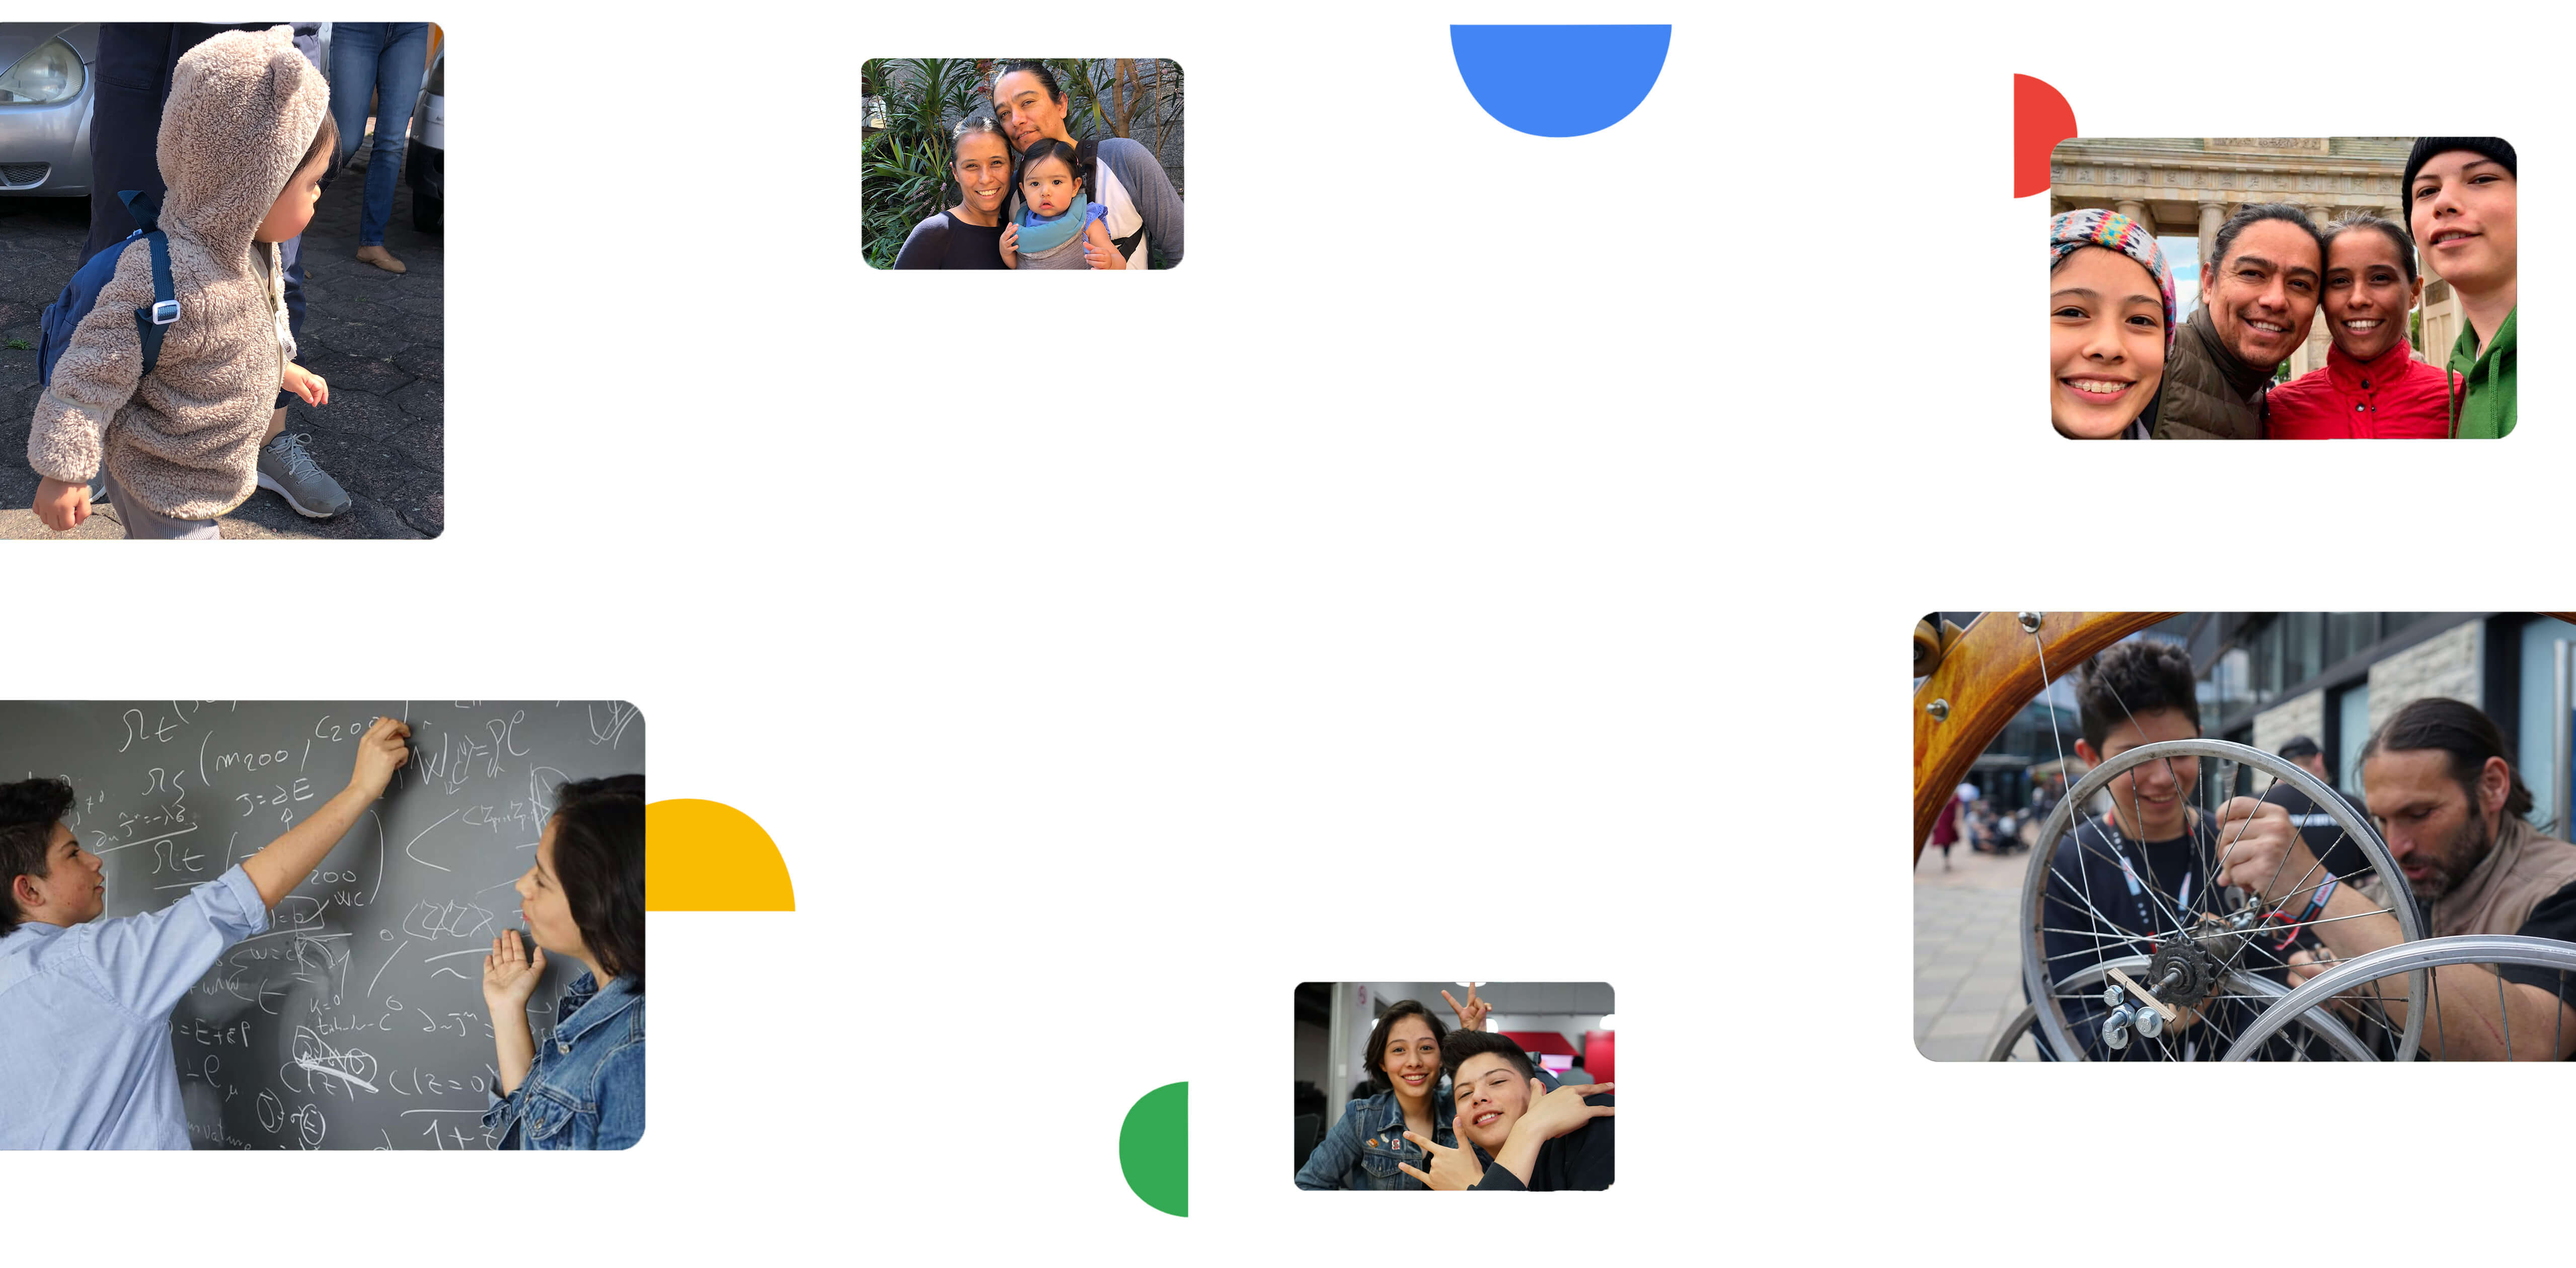
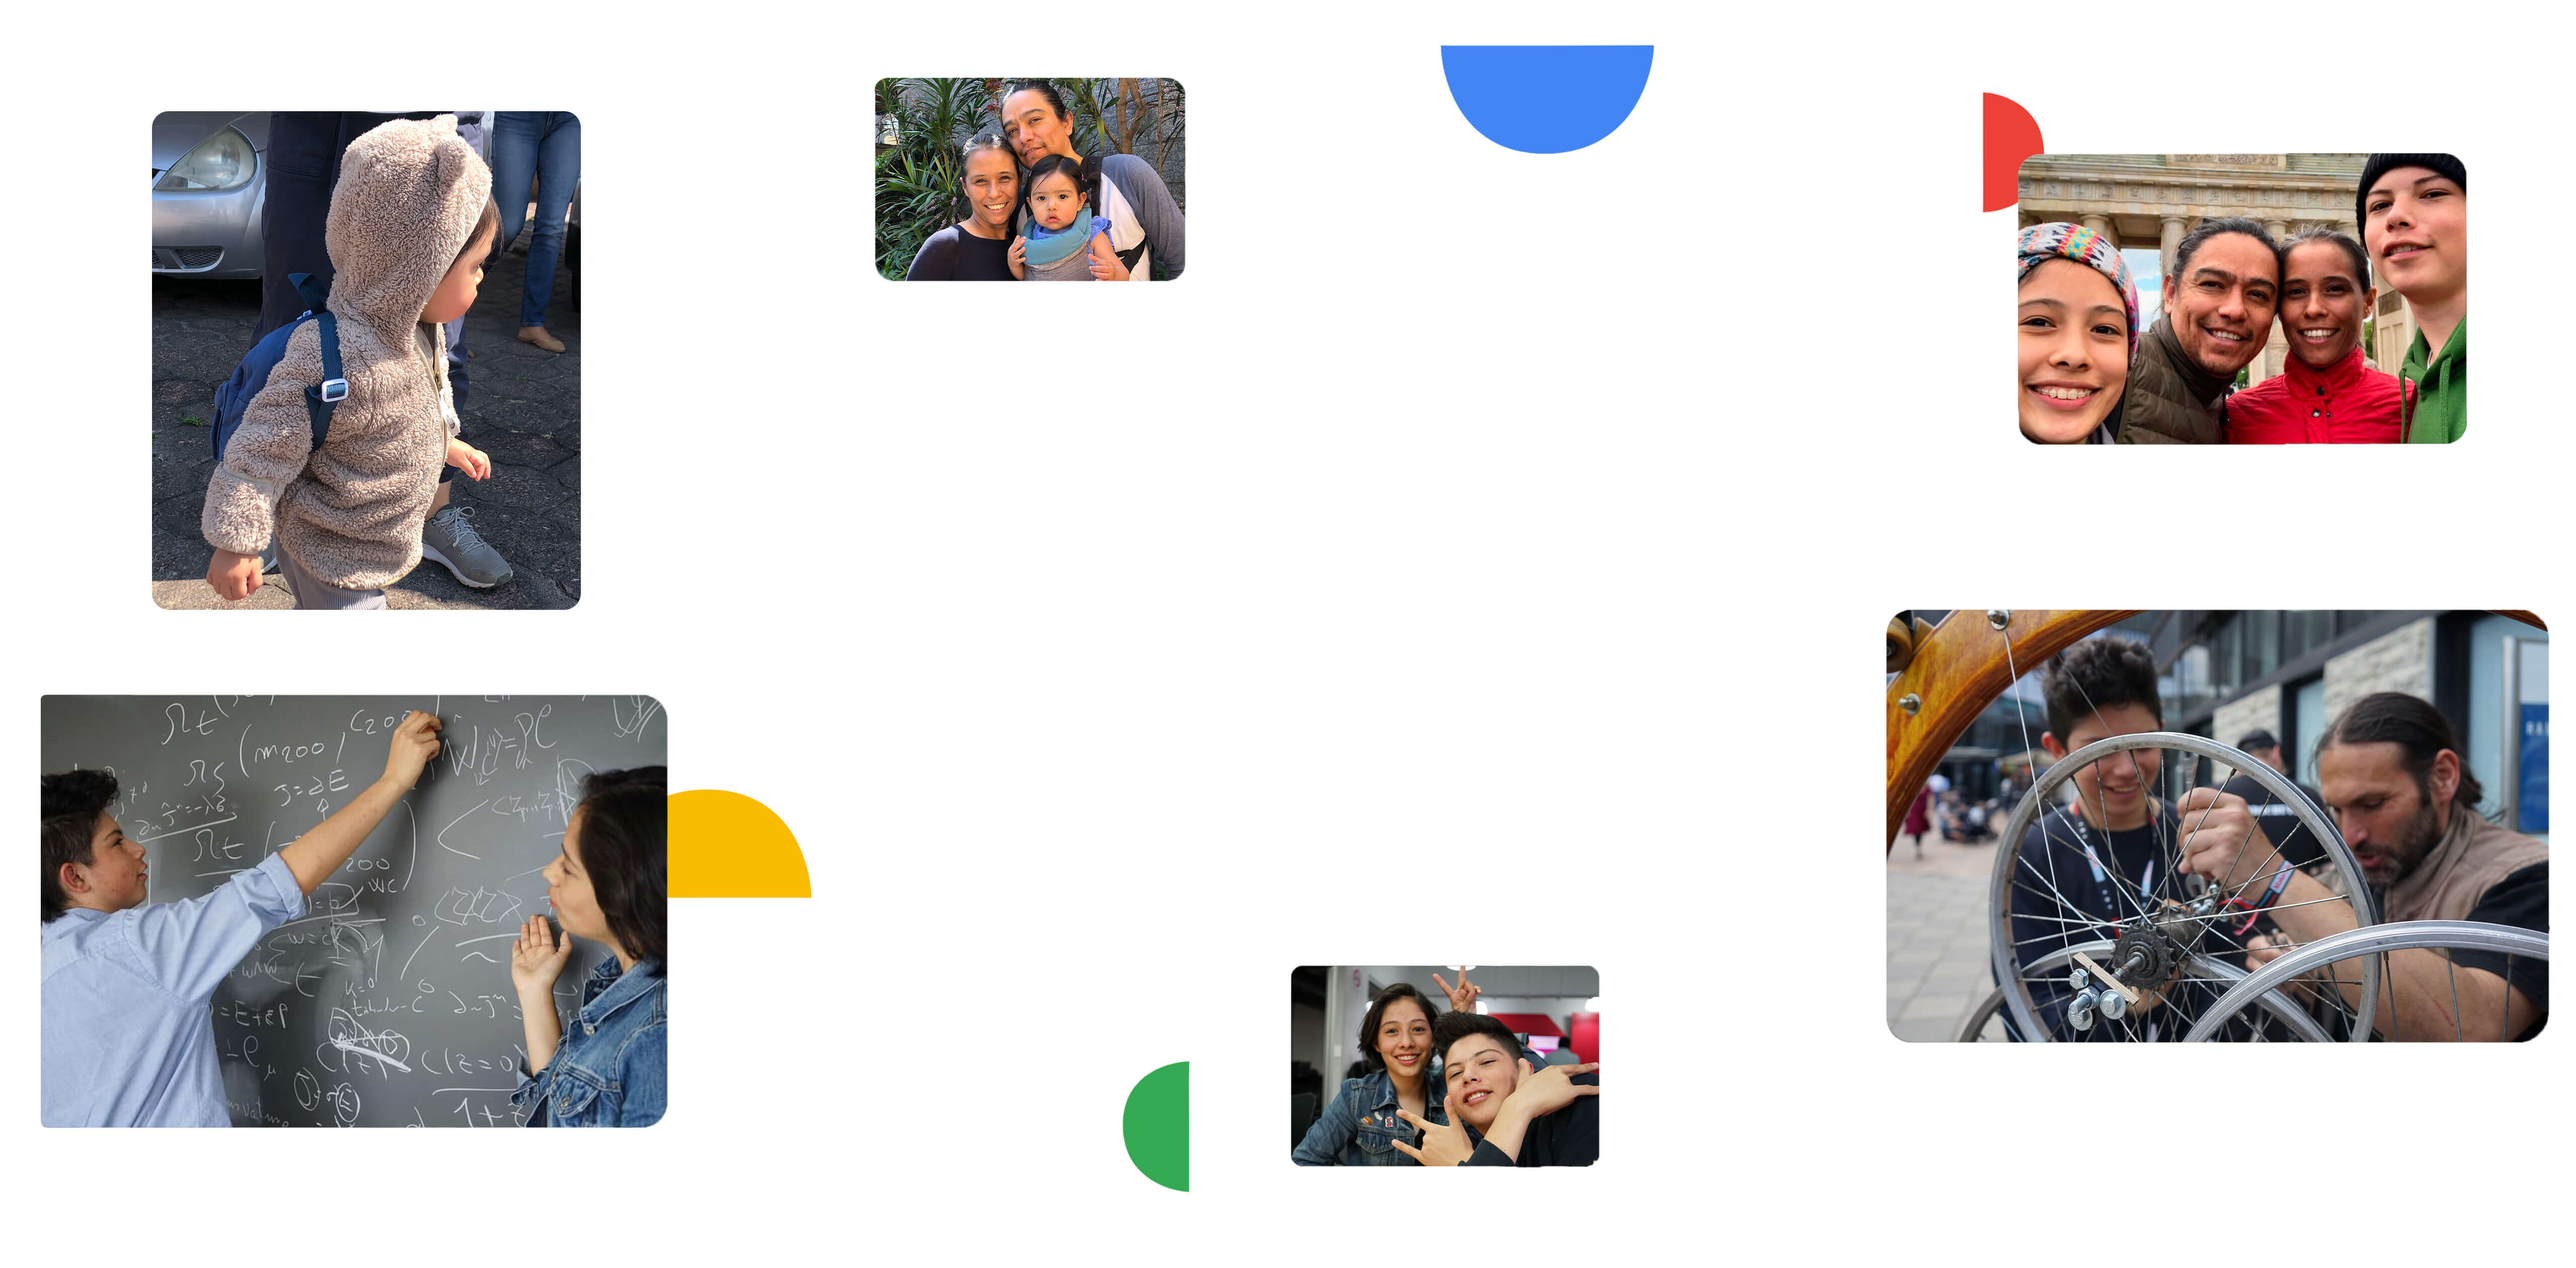
agremagos estilos de tablet a about

diff --git a/src/frontend/components/Langind/index.js b/src/frontend/components/Langind/index.js
@@ -40,8 +40,37 @@ function LangindUI() {
         </div>
       </section>
 
+      {/* Edita tus recuerdos para darles vida */}
+      <section className="secction container display-flex-colum_tablet ">
+        <div data-aos="fade-right" className="container-secction-small">
+          <img
+            src="https://www.google.com/photos/static/2020/images/index/icon_editing.svg"
+            alt=""
+          />
+          <h2>
+            Cuida tus <br /> recuerdos con <br /> Clean AI
+          </h2>
+          <p>
+            Usa la inteligencia artificial, para cuidar tus recuerdos y
+            almacenamiento. Usando Clean AI, lograrás saber que fotos están
+            duplicadas y tu decides cual conservar deseas conservar.
+          </p>
+        </div>
+        <figure
+          data-aos="fade-left"
+          className="container-secction-big img-container"
+        >
+          {/* imagen de ejemplo de computadora */}
+          <img
+            className="img-w-1"
+            src={imgClean}
+            alt="Imagen de ejemplo de editar"
+          />
+        </figure>
+      </section>
+
       {/* tus recuerdos en toos los dispositivos */}
-      <section className="secction container ">
+      <section className="secction container display-flex-colum_tablet">
         <div data-aos="fade-right" className="container-secction-small">
           <svg
             xmlns="http://www.w3.org/2000/svg"
@@ -107,7 +136,7 @@ function LangindUI() {
       </section>
 
       {/* Encuentra fotos mas rapido */}
-      <section className="secction container">
+      <section className="secction container container-recuerdos">
         <div data-aos="zoom-out" className="text-center">
           <svg
             xmlns="http://www.w3.org/2000/svg"
@@ -115,6 +144,7 @@ function LangindUI() {
             height="56px"
             viewBox="0 0 55 56"
             version="1.1"
+            className="svg"
           >
             <g
               id="Page-1"
@@ -271,35 +301,6 @@ function LangindUI() {
             />
           </figure>
         </div>
-      </section>
-
-      {/* Edita tus recuerdos para darles vida */}
-      <section className="secction container">
-        <div data-aos="fade-right" className="container-secction-small">
-          <img
-            src="https://www.google.com/photos/static/2020/images/index/icon_editing.svg"
-            alt=""
-          />
-          <h2>
-            Cuida tus <br /> recuerdos con <br /> Clean AI
-          </h2>
-          <p>
-            Usa la inteligencia artificial, para cuidar tus recuerdos y
-            almacenamiento. Usando Clean AI, lograrás saber que fotos están
-            duplicadas y tu decides cual conservar deseas conservar.
-          </p>
-        </div>
-        <figure
-          data-aos="fade-left"
-          className="container-secction-big img-container"
-        >
-          {/* imagen de ejemplo de computadora */}
-          <img
-            className="img-w-1"
-            src={imgClean}
-            alt="Imagen de ejemplo de editar"
-          />
-        </figure>
       </section>
 
       {/* Saca el máximo partido de tus recuerdos con Google Fotos */}

diff --git a/src/frontend/routes/App.js b/src/frontend/routes/App.js
@@ -3,12 +3,11 @@ import { BrowserRouter, Route, Switch } from "react-router-dom";
 import { StateContex } from "../state";
 
 import About from "../containers/About.jsx";
-import Login from "../containers/Login.jsx";
 import Photos from "../containers/photos.jsx";
 import NotFound from "../containers/NotFound.jsx";
 
 function App() {
-  const { AgregarValores, llamarApiDatosAll } = React.useContext(StateContex);
+  const { llamarApiDatosAll } = React.useContext(StateContex);
 
   React.useEffect(() => {
     llamarApiDatosAll();
@@ -17,7 +16,6 @@ function App() {
     <BrowserRouter>
       <Switch>
         <Route exact path="/" component={About} />
-        <Route exact path="/login" component={Login} />
         <Route exact path="/photos" component={Photos} />
         <Route exact path="/photos/" component={Photos} />
         <Route exact path="/photos/:name" component={Photos} />

diff --git a/src/frontend/assets/styles/responsive/tablet.css b/src/frontend/assets/styles/responsive/tablet.css
@@ -1,0 +1,55 @@
+@media (max-width: 780px) {
+  .search-container {
+    width: 20%;
+  }
+  .logo--container {
+    margin: 0;
+  }
+  nav {
+    justify-content: space-around;
+  }
+  h2 {
+    font-size: 130%;
+  }
+
+  .secction p {
+    font-size: 90%;
+  }
+
+  .svg,
+  .secction svg {
+    width: 40px;
+    height: 40px;
+  }
+
+  .intro-fondo-center .BotomBlue {
+    height: 130%;
+  }
+  .img-container-samll,
+  .img-container {
+    height: auto;
+  }
+
+  .display-flex-colum_tablet {
+    flex-direction: column;
+    height: auto;
+  }
+  .secction {
+    margin-top: 60px;
+    margin-bottom: 60px;
+    height: 60vh;
+  }
+  .container-recuerdos{
+    height: auto;
+  }
+
+  .ImgSearch {
+    width: auto;
+    height: 100%;
+  }
+
+  .intro {
+    height: 80vh;
+    margin: 0;
+  }
+}

diff --git a/src/frontend/routes/serverRoutes.js b/src/frontend/routes/serverRoutes.js
@@ -1,32 +1,26 @@
 import About from "../containers/About.jsx";
-import Login from "../containers/Login.jsx";
 import Photos from "../containers/photos.jsx";
 import NotFound from "../containers/NotFound.jsx";
 
 const routes = [
   {
     exact: true,
-    path: '/',
+    path: "/",
     component: About,
   },
   {
     exact: true,
-    path: '/login',
-    component: Login,
-  },
-  {
-    exact: true,
-    path: '/photos',
+    path: "/photos",
     component: Photos,
   },
   {
     exact: true,
-    path: '/photos/',
+    path: "/photos/",
     component: Photos,
   },
   {
     exact: true,
-    path: '/photos/:name',
+    path: "/photos/:name",
     component: Photos,
   },
   {

diff --git a/src/frontend/index.js b/src/frontend/index.js
@@ -8,10 +8,10 @@ import { createBrowserHistory } from "history";
 // importamos nuestro provider, (el estado de nuestra web app)
 import { StateProvider } from "./state/index";
 
-import "animate.css"
+import "animate.css";
 import "./assets/styles/style.css";
+import "./assets/styles/responsive/tablet.css";
 import "aos/dist/aos.css";
-
 
 const history = createBrowserHistory();
 
@@ -21,7 +21,7 @@ const history = createBrowserHistory();
 
 // ReactDOM.render(
 ReactDOM.hydrate(
-    <StateProvider> 
+  <StateProvider>
     <Router history={history}>
       <App />
     </Router>

diff --git a/src/frontend/assets/styles/style.css b/src/frontend/assets/styles/style.css
@@ -15,9 +15,13 @@ h2 {
 }
 
 .container {
-  padding: 5%;
+  padding: 0 5% 0 5%;
   width: 90vw;
   height: 90vh;
+  max-height: 1400px;
+}
+.container-recuerdos {
+  align-items: flex-start;
 }
 
 .container-secction-small,

diff --git a/src/frontend/assets/styles/components/langind.css b/src/frontend/assets/styles/components/langind.css
@@ -1,6 +1,7 @@
 .secction {
   width: 100vw;
   height: 100vh;
+  max-height: 1400px;
   display: flex;
   justify-content: center;
   align-items: center;
